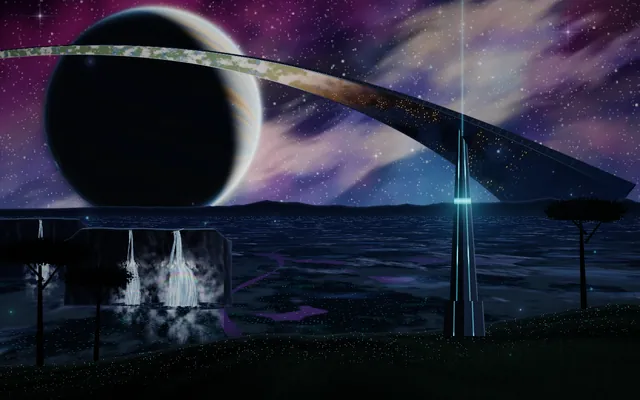
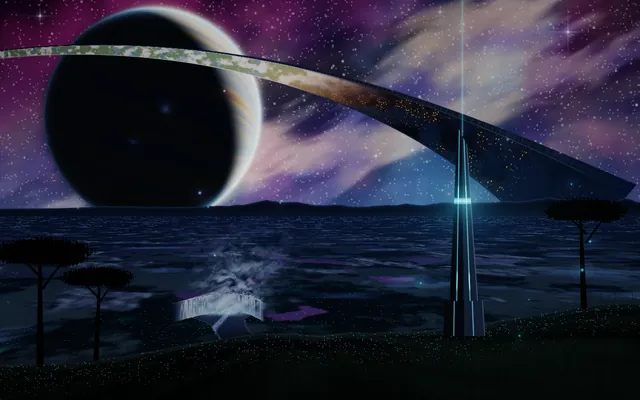
Ringworld: a horseshoe of falls in the valley instead of the box mesa
The tabletop mountain read as a flat box at every size and angle tried, so
the waterfall now lives in the valley itself: the river fans out over a
broad horseshoe lip and drops into a gorge it has cut back into the floor.
Seen from the spur above, a curtain of separate falls with streaming water,
rapids foaming toward the edge, the gorge running on toward us with the
river white in its bed and spray hanging in it, and a plume of lit spray
leaning on the wind high over the valley. Renders in about half the time
of the old mesas. New picker still.

Claude-Session: https://claude.ai/code/session_01DRRuvyWEfCZWTbdcv88frb

Changed region(s): [[0.0, 0.54, 0.4688, 0.87], [0.25, 0.27, 0.2812, 0.3], [0.125, 0.15, 0.1562, 0.18]]

diff --git a/src/themes/worlds/ringworld.ts b/src/themes/worlds/ringworld.ts
@@ -1,7 +1,8 @@
 /* Ringworld at night: a colossal ring rises from the horizon and arches across a sky full of stars,
    nebulae and the galaxy's band; its near reach is in night, pricked with city lights, its far side still
    in sunlight. A giant planet hangs as a thin crescent. Far below, a moonless valley glows with living
-   light; a great waterfall pours off a tabletop mountain into mist; the builders' pylon burns on our spur. */
+   light; its river pours over a horseshoe of falls into a gorge, the spray climbing in a glowing plume; the
+   builders' pylon burns on our spur. */
 
 export const ringworld = /* glsl */ `
 const float RW_HZ = -0.040;               // horizon
@@ -148,81 +149,50 @@ vec4 rwRing(vec2 p, float t, float px){
   return vec4(c, cov);
 }
 
-/* tabletop mountain with sheer walls: distance to its silhouette in screen units */
-float rwMesa(vec2 p, float x0, float x1, float top, float foot, float seed){
-  float tp = top + 0.008 * fbm1lo(p.x * 9.0 + seed) - 0.03 * smoothstep(x1 - 0.05, x1, p.x) - 0.03 * smoothstep(x0 + 0.05, x0, p.x);
-  float side = max(x0 - p.x, p.x - x1) + 0.006 * (fbm1lo(p.y * 40.0 + seed) - 0.5);
-  return max(max(p.y - tp, side), foot - p.y);
+/* the great falls: the valley's river spreads over a broad lip of rock and drops into a gorge it has cut back into
+   the valley floor, throwing up a plume of spray that climbs, glowing, high into the night */
+const float RW_FZ = 5600.0;               // distance of the lip at the head of the gorge (m)
+const float RW_FD = 240.0;                // how far the water falls (m)
+const float RW_FW = 640.0;                // half the width of the lip (m)
+const float RW_FK = 0.0018;               // how sharply the lip curves round into a horseshoe
+
+float rwRiverX(float z){ return 380.0 * sin(z * 0.00082 + 0.6) + 600.0 * sin(z * 0.00029 + 2.0) - 650.0; }
+
+// the gorge's centre and half-width (m) at distance z: the horseshoe at its head, then a cleft running toward us
+vec2 rwGorge(float z){
+  float XH = rwRiverX(RW_FZ);
+  float zArm = RW_FZ - RW_FK * RW_FW * RW_FW;
+  float hw = z > zArm ? sqrt(max(RW_FZ - z, 0.0) / RW_FK) : mix(170.0, RW_FW, smoothstep(zArm - 800.0, zArm, z));
+  hw += (40.0 * (n1(z / 120.0) - 0.5) + 20.0 * (n1(z / 37.0 + 4.0) - 0.5)) * smoothstep(RW_FZ - 200.0, zArm, z);
+  return vec2(mix(XH, rwRiverX(z), smoothstep(zArm, zArm - 800.0, z)), hw);
 }
 
-/* a waterfall seen whole: ribbons of water spilling over a lip, streaming, catching on a ledge, plunging into
-   a pool in clouds of spray. returns colour and coverage; fx = lip x, tp = lip height, foot = pool height */
-vec4 rwFall(vec2 p, float fx, float tp, float foot, float scale, float t, float px){
-  float H = tp - foot;
-  float yy = (tp - p.y) / H;                                  // 0 at the lip, 1 at the pool
-  if (yy < -0.05 || yy > 1.6 || abs(p.x - fx) > 0.12 * scale) return vec4(0.0);
-  vec3 rc = vec3(0.0); float ra = 0.0;                        // premultiplied, built back to front
-  float ledge = 0.46;
-  float below = smoothstep(ledge - 0.02, ledge + 0.10, yy);
-  float bow = 0.006 * scale * (1.0 - exp(-yy * 6.0)) + 0.009 * scale * below;
-  float xc = fx + bow + 0.0025 * scale * sin(yy * 9.0 + 1.0);
-  float w = scale * (0.011 + 0.030 * smoothstep(0.0, 1.0, yy) + 0.006 * below);
-  float lx = (p.x - xc) / w;
-  // spray and mist behind and around the plunge, drifting off to the right
-  vec2 mq = vec2((p.x - xc) / (0.085 * scale), (p.y - foot - 0.025 * scale) / (0.075 * scale));
-  float mistE = exp(-dot(mq * vec2(1.0, 0.8), mq * vec2(1.0, 0.8)));
-  float mistN = fbm4(vec2(p.x * 40.0 / scale - t * 0.12, p.y * 40.0 / scale - t * 0.5));
-  float mist = mistE * smoothstep(0.30, 0.78, mistN) * 0.85;
-  vec3 mistC = vec3(0.70, 0.78, 0.90) * (0.75 + 0.35 * mistN);
-  rc = mistC * mist; ra = mist;
-  // the pool: dark water, ripples spreading, foam where the water strikes
-  vec2 pq = vec2((p.x - xc) / (w * 3.0), (p.y - foot) / (0.011 * scale));
-  float pr = length(pq);
-  float pool = smoothstep(1.0, 0.85, pr) * step(p.y, foot + 0.011 * scale);
-  if (pool > 0.0){
-    float rip = 0.5 + 0.5 * sin(pr * 24.0 - t * 4.0);
-    vec3 pc = vec3(0.025, 0.04, 0.06) + RW_RING_LIGHT * 0.12 * rip * smoothstep(0.25, 0.9, pr);
-    float foam = smoothstep(0.55, 0.0, pr) * smoothstep(0.35, 0.75, fbm4(p * 200.0 / scale + vec2(t * 0.6, 0.0)));
-    pc = mix(pc, vec3(0.85, 0.90, 0.98), foam * 0.85);
-    rc = pc * pool + rc * (1.0 - pool); ra = pool + ra * (1.0 - pool);
-  }
-  if (yy >= -0.01 && yy <= 1.0){
-    // ribbons near the top that merge lower down, ragged frothing edges
-    float rib = fbm4(vec2(lx * 2.2 + 7.0, yy * 1.5 + scale * 3.0));
-    float ribbons = mix(smoothstep(0.36, 0.52, rib), 1.0, smoothstep(0.25, 0.75, yy));
-    float edgeN = 0.24 * (fbm4(vec2(p.y * 60.0 / scale + t * 3.0, lx > 0.0 ? 1.0 : 3.0)) - 0.5);
-    float env = smoothstep(1.0 + edgeN, 0.78 + edgeN, abs(lx)) * smoothstep(-0.01, 0.02, yy);
-    // streaks rushing down, fast in the centre, slower and broken at the edges, with ripples crossing them
-    float spd = 3.4 - 1.2 * abs(lx);
-    float st = fbm4(vec2(lx * 11.0 + 3.0, (p.y / scale) * 34.0 + t * spd));
-    float st2 = fbm4(vec2(lx * 27.0 + 9.0, (p.y / scale) * 66.0 + t * spd * 1.3));
-    float rp = 0.5 + 0.5 * sin((p.y / scale) * 260.0 + t * spd * 9.0 + lx * 2.0);
-    vec3 water = mix(vec3(0.34, 0.44, 0.58), vec3(0.92, 0.96, 1.0), smoothstep(0.40, 0.80, st * 0.65 + st2 * 0.35 + rp * 0.08));
-    water += vec3(0.20, 0.80, 0.85) * 0.08;
-    water *= 0.72 + 0.38 * smoothstep(1.0, 0.15, abs(lx));
-    float a = env * ribbons * (0.62 + 0.38 * st);
-    rc = water * a + rc * (1.0 - a); ra = a + ra * (1.0 - a);
-    // the white burst where it strikes the ledge
-    vec2 lq = vec2((p.x - xc) / (w * 1.8), (yy - ledge) / 0.06);
-    float burst = exp(-dot(lq, lq)) * smoothstep(0.35, 0.72, fbm4(vec2(p.x * 160.0, p.y * 90.0 - t * 1.5) / scale)) * 0.9;
-    rc = vec3(0.93, 0.96, 1.0) * burst + rc * (1.0 - burst); ra = burst + ra * (1.0 - burst);
-  }
-  // a veil of spray in front of the lower fall
-  float veil = mistE * smoothstep(0.45, 0.85, fbm4(vec2(p.x * 70.0 / scale + t * 0.05, p.y * 50.0 / scale - t * 0.8))) * 0.45;
-  rc = mistC * 1.1 * veil + rc * (1.0 - veil); ra = veil + ra * (1.0 - veil);
-  vec3 col = rc / max(ra, 1e-4);
-  // a moonbow in the spray: the ring's light split into faint colours
-  float mb = length((p - vec2(xc, foot - 0.01 * scale)) / scale);
-  float bow2 = exp(-pow((mb - 0.090) * 55.0, 2.0)) * mistE * smoothstep(0.0, 0.03, p.y - foot);
-  vec3 rainbow = 0.5 + 0.5 * cos(6.2831 * ((mb - 0.090) * 40.0 + vec3(0.0, 0.33, 0.67)));
-  col += rainbow * bow2 * 0.30;
-  ra = max(ra, bow2 * 0.25);
-  // spray droplets flung out of the mist
-  vec2 dg = (p - vec2(xc, foot)) * vec2(260.0, 260.0) / scale + vec2(0.0, t * 6.0);
-  float drop = step(0.93, hash21(floor(dg))) * smoothstep(0.25, 0.0, length(fract(dg) - 0.5)) * mistE;
-  col += vec3(0.9, 0.95, 1.0) * drop * 0.8;
-  ra = max(ra, drop * 0.6);
-  return vec4(col, clamp(ra, 0.0, 1.0));
+/* the plume of spray over the gorge: billows lit from above by the arch and from below by the forest's light,
+   leaning with the wind and thinning to rags as it climbs. premultiplied colour, coverage */
+vec4 rwPlume(vec2 p, float Z, float Xc, float t){
+  float X = p.x * Z;
+  float h = RW_H - (RW_HZ - p.y) * Z;
+  float hh = h + RW_FD;                                   // height above the gorge floor
+  if (hh < -60.0 || hh > 1600.0) return vec4(0.0);
+  float hp = max(hh, 0.0);
+  float R = 380.0 + 0.45 * hp;
+  float cx = Xc + 0.22 * hp + 35.0 * sin(hp / 190.0 - t * 0.15);
+  float qx = (X - cx) / R;
+  if (abs(qx) > 2.2) return vec4(0.0);
+  float env = exp(-qx * qx * 1.5) * smoothstep(1450.0, 150.0, hp) * smoothstep(-40.0, 60.0, hh);
+  vec2 nq = vec2((X - cx) / 130.0, h / 120.0 - t * 0.14);
+  float wv = fbm3(nq * 0.6 + vec2(t * 0.03, 0.0));
+  float n = fbm4(nq + wv * 1.3);
+  float nU = fbm4(nq + vec2(0.0, 0.35) + wv * 1.3);
+  float base = exp(-qx * qx * 1.2) * smoothstep(320.0, 40.0, hp) * smoothstep(-60.0, 40.0, hh);
+  float dens = clamp(env * (n * 2.0 - 0.36) + base * (0.35 + 0.5 * n), 0.0, 1.0);
+  float lit = clamp(0.5 + (n - nU) * 2.5, 0.0, 1.0);
+  vec3 c = mix(vec3(0.12, 0.15, 0.22), vec3(0.58, 0.66, 0.82), lit);
+  c += vec3(0.05, 0.28, 0.27) * smoothstep(320.0, 0.0, hp) * 0.45;
+  c += vec3(0.30, 0.34, 0.42) * base * 0.5;                // the foot, lit by the falling water
+  c = mix(c, vec3(0.03, 0.05, 0.09), 1.0 - exp(-Z * 0.00009));
+  float a = dens * 0.82 + env * 0.10;
+  return vec4(c * a, clamp(a, 0.0, 1.0));
 }
 
 vec3 scene(vec2 uv){
@@ -267,7 +237,7 @@ vec3 scene(vec2 uv){
     vec3 trees = vec3(0.010, 0.020, 0.020);
     vec3 c = mix(meadow, trees, forest);
     // glow-flora: tiny lights in the forest, thicker near the water
-    float rx = 380.0 * sin(z * 0.00082 + 0.6) + 600.0 * sin(z * 0.00029 + 2.0) - 650.0;
+    float rx = rwRiverX(z);
     float rw = 40.0 + 28.0 * sin(z * 0.0021);
     float nearRiver = exp(-abs(X - rx) / 500.0);
     vec2 bg = w * 0.025;
@@ -290,6 +260,65 @@ vec3 scene(vec2 uv){
     float village = step(0.75, hash21(floor(vg * 0.25))) * step(0.55, hash21(floor(vg * 3.0))) * smoothstep(0.35, 0.0, length(fract(vg * 3.0) - 0.5));
     village *= smoothstep(260.0, 60.0, abs(X - rx)) * (1.0 - water);
     c += vec3(1.0, 0.66, 0.30) * village * 0.9;
+    // the great falls: rapids fanning out over a broad lip, a curtain of water dropping into the gorge it has
+    // cut, the gorge running on toward us with the river white in its bed
+    {
+      float XH = rwRiverX(RW_FZ);
+      // the lip under this column: where z = FZ - FK (x z - XH)^2, then roughened
+      float qa = max(RW_FK * p2.x * p2.x, 1e-9), qb = 1.0 - 2.0 * RW_FK * p2.x * XH, qc = RW_FK * XH * XH - RW_FZ;
+      float zl = (-qb + sqrt(max(qb * qb - 4.0 * qa * qc, 0.0))) / (2.0 * qa);
+      zl += 45.0 * (n1((p2.x * zl - XH) / 70.0) - 0.5);
+      float Xl = p2.x * zl;
+      float ul = (Xl - XH) / RW_FW;
+      float yl = RW_HZ - RW_H / zl;
+      float yb = RW_HZ - (RW_H + RW_FD) / zl;
+      if (abs(ul) < 1.3 && z > zl - 2000.0 && z < zl + 1000.0){
+        float faceM = smoothstep(1.0, 0.86, abs(ul));
+        if (p2.y > yl){
+          // rapids: the river fans out over the lip, foam streaming toward the edge
+          float k = clamp((z - zl) / 900.0, 0.0, 1.0);
+          float halfW = mix(RW_FW, rw, sqrt(k));
+          float sheet = smoothstep(halfW + pw, halfW - pw, abs(X - mix(XH, rx, k))) * step(z, zl + 900.0);
+          float foam = smoothstep(0.30, 0.80, vnoise(vec2((X - XH) / 16.0, (z - zl) / 50.0 + t * 0.7))) * (0.45 + 0.55 * (1.0 - k));
+          vec3 wc = mix(mix(refl, vec3(0.14, 0.18, 0.26), 0.5), vec3(0.62, 0.70, 0.84), foam * 0.8);
+          wc += vec3(0.80, 0.86, 0.98) * 0.35 * smoothstep(3.0 * px, 0.0, p2.y - yl);    // the glassy edge
+          c = mix(c, wc, sheet);
+        } else if (p2.y > yb){
+          // the curtain: water where the lip runs, dark wet rock between, streaks racing down
+          float hf = (yl - p2.y) / (yl - yb);
+          float dx = Xl - XH;
+          float wet = smoothstep(0.30, 0.44, n1(dx / 60.0 + 3.0) * 0.6 + n1(dx / 19.0 + 8.0) * 0.4 + 0.16 * (1.0 - abs(ul))) * smoothstep(0.92, 0.70, abs(ul));
+          float st = vnoise(vec2(dx / 8.0, hf * 2.5 - t * 1.4)) * 0.6 + vnoise(vec2(dx / 3.5, hf * 5.0 - t * 2.1)) * 0.4;
+          vec3 water = mix(vec3(0.28, 0.36, 0.50), vec3(0.84, 0.90, 1.0), smoothstep(0.30, 0.80, st));
+          vec3 rock = vec3(0.014, 0.018, 0.026) + RW_RING_LIGHT * 0.03 * (1.0 - hf);
+          vec3 cur = mix(rock, water, wet * (1.0 - 0.25 * hf));
+          cur = mix(cur, vec3(0.50, 0.57, 0.70), smoothstep(0.35, 1.0, hf) * 0.85 * smoothstep(0.95, 0.55, abs(ul)));    // the foot lost in spray
+          c = mix(c, cur, faceM);
+        } else {
+          // the gorge: looking down into it, its floor and the river, its left wall in shadow
+          vec2 g0 = rwGorge(z);
+          float gx0 = g0.x, gw0 = g0.y;
+          float gEnd = smoothstep(RW_FZ - 2500.0, RW_FZ - 2300.0, z);
+          float inG = smoothstep(gw0 + pw, gw0 - pw, abs(X - gx0)) * gEnd;
+          if (inG > 0.0){
+            float zf = (RW_H + RW_FD) / (RW_HZ - p2.y);
+            float Xf = p2.x * zf;
+            vec2 gf = rwGorge(zf);
+            float gxf = gf.x;
+            float floorV = smoothstep(gf.y + 15.0, gf.y - 15.0, abs(Xf - gxf));
+            float rv = smoothstep(60.0, 22.0, abs(Xf - gxf));
+            float foam = smoothstep(0.35, 0.80, vnoise(vec2((Xf - gxf) / 14.0, zf / 40.0 + t * 0.8)));
+            vec3 fl = vec3(0.010, 0.014, 0.020) + vec3(0.34, 0.42, 0.56) * rv * (0.45 + 0.40 * foam) * smoothstep(RW_FZ - 2400.0, RW_FZ - 1600.0, zf);
+            fl += vec3(0.16, 0.20, 0.28) * 0.55 * smoothstep(RW_FZ - 2000.0, RW_FZ, zf);   // spray hanging in the gorge
+            float zw = (gx0 - gw0) / min(p2.x, -1e-4);                             // where the sight line meets the left wall
+            float hwl = clamp((RW_H - (RW_HZ - p2.y) * zw) / RW_FD + 1.0, 0.0, 1.0);
+            vec3 wall = vec3(0.016, 0.020, 0.030) + RW_RING_LIGHT * 0.06 * hwl * hwl + vec3(0.16, 0.20, 0.28) * 0.35 * smoothstep(RW_FZ - 1800.0, RW_FZ, zw);
+            c = mix(c, mix(wall, fl, floorV), inG);
+          }
+          c += RW_RING_LIGHT * 0.10 * smoothstep(2.5 * pw, 0.0, abs(abs(X - gx0) - gw0)) * gEnd * step(z, zl);
+        }
+      }
+    }
     c = mix(c, vec3(0.03, 0.05, 0.09), 1.0 - exp(-z * 0.00009));
     // luminous mist lying in the low ground, drifting
     float vm = smoothstep(0.55, 0.80, fbm4(vec2(X * 0.0006 - t * 0.01, z * 0.0011)));
@@ -304,49 +333,9 @@ vec3 scene(vec2 uv){
     float dens = smoothstep(0.66, 0.80, cd);
     vec3 cc = mix(vec3(0.03, 0.04, 0.07), RW_RING_LIGHT * 0.35, clamp((cd - cd2) * 9.0 + 0.4, 0.0, 1.0));
     col = mix(col, cc, dens * 0.9);
-  }
-
-  // tabletop mountains on the left, dark walls with ringlight on their edges; a great waterfall pours off the
-  // near one in two stages into a pool of mist, a slimmer fall beside it, another on the far mesa
-  vec2 p3 = p + m * vec2(0.020, 0.008);
-  for (int k = 1; k >= 0; k--){
-    float fk = float(k);
-    float x0 = k == 0 ? -0.64 : -0.92, x1 = k == 0 ? -0.22 : -0.56;
-    float top = k == 0 ? -0.075 : -0.050, foot = k == 0 ? -0.265 : -0.200;
-    vec2 pk = p3 + m * vec2(0.006 * fk, 0.0);
-    float dm = rwMesa(pk, x0, x1, top, foot, fk * 5.0);
-    float tp = top + 0.008 * fbm1lo(pk.x * 9.0 + fk * 5.0);
-    if (dm < px * 2.0){
-      float crown = smoothstep(tp - 0.012, tp - 0.004, pk.y);
-      float u = (pk.x - x0) / (x1 - x0);
-      vec2 wq = pk + 0.012 * vec2(gnoise(pk * 30.0), gnoise(pk * 30.0 + 5.0));
-      float frac = abs(gnoise(vec2(wq.x * 55.0, wq.y * 7.0) + fk * 3.0)) + 0.45 * abs(gnoise(vec2(wq.x * 150.0, wq.y * 22.0)));
-      vec3 wall = mix(vec3(0.015, 0.016, 0.022), vec3(0.06, 0.065, 0.085), smoothstep(0.10, 0.70, frac));
-      wall += RW_RING_LIGHT * smoothstep(0.75, 1.0, u) * 0.05;
-      float ledgeV = smoothstep(0.62, 0.72, fbm4(wq * vec2(26.0, 70.0) + fk * 7.0)) * smoothstep(0.35, 0.6, frac);
-      wall += vec3(0.10, 0.80, 0.70) * ledgeV * step(0.7, vnoise(pk * 400.0)) * 0.25;          // glowing moss on the ledges
-      vec3 jungle = vec3(0.012, 0.022, 0.020) + RW_RING_LIGHT * smoothstep(tp - 0.003, tp, pk.y) * 0.18;
-      vec3 mc = mix(wall, jungle, crown);
-      mc += RW_RING_LIGHT * exp(-max(-dm, 0.0) * 400.0) * 0.16;
-      mc += RW_RING_LIGHT * smoothstep(tp - 0.004, tp, pk.y) * 0.10;
-      mc = mix(mc, vec3(0.03, 0.05, 0.09), 0.10 + 0.25 * fk + 0.25 * smoothstep(foot + 0.06, foot, pk.y));
-      col = mix(col, mc, af(dm, px));
-    }
-    // the falls
-    if (k == 0){
-      // the river running across the mesa top to the lip
-      float rvx = -0.36 + 0.02 * sin(pk.y * 160.0);
-      float onTop = smoothstep(tp - 0.011, tp - 0.007, pk.y) * step(pk.y, tp);
-      float riverTop = smoothstep(0.0025, 0.0008, abs(pk.x - rvx - (tp - pk.y) * 0.0)) * onTop * step(pk.x, -0.30) * step(-0.42, pk.x);
-      col = mix(col, vec3(0.62, 0.72, 0.86), riverTop * 0.6);
-      vec4 fa = rwFall(pk, -0.360, tp - 0.004, foot, 1.0, t, px);
-      col = mix(col, fa.rgb, fa.a);
-      vec4 fb = rwFall(pk, -0.475, tp - 0.004, foot + 0.004, 0.45, t + 3.0, px);
-      col = mix(col, fb.rgb, fb.a * 0.9);
-    } else {
-      vec4 fc = rwFall(pk, -0.70, tp - 0.004, foot, 0.40, t + 7.0, px);
-      col = mix(col, fc.rgb, fc.a * 0.75);
-    }
+    // the plume over the gorge
+    vec4 pl = rwPlume(p2, RW_FZ - 150.0, rwRiverX(RW_FZ) + 20.0, t);
+    col = col * (1.0 - pl.a) + pl.rgb;
   }
 
   // our spur: dark meadow, glowing flowers, tall trees black against the stars, and the builders' pylon ablaze
